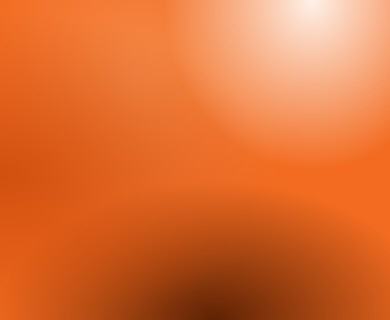
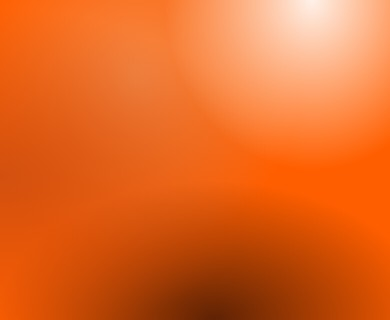
brand.500 passe à #FF5E00, mesuré avant d'être propagé
La couleur du fichier de la fondatrice remplace une estimation lue sur
une capture Instagram compressée. Le point du logo est le seul endroit du
produit où la marque se signe elle-même.

La question était : est-ce que des seuils cassent. Non, et la marge est
confortable. La luminance ne bouge que de -0,8 % — #FF5E00 a moins de
vert et pas de bleu, mais il est plus clair d'un cheveu en luminance
relative.

  encre sur orange   6,11:1 → 6,07:1   (seuil 4,5, marge de 35 %)
  blanc sur orange   3,04:1 → 3,06:1   (seuil 3,0, et il gagne)

La rampe l'accepte : teinte 22,1°, en plein dans les 20-24° des huit
autres valeurs ; luminosité 50 %, entre le 500 d'avant et le 600 ;
saturation 100 %, la plus pure — ce qu'on attend d'une couleur d'ancrage
dont les autres stops sont des dérivés rabattus.

Les trois satins portent le 500 dans leurs arrêts et sont livrés en
images : recuits, et leurs contrastes remesurés dans la même exécution.
`drape` passe de 7,06:1 à 6,94:1 en haut, `fold` de 5,06 à 5,05. Les
commentaires qui citaient ces chiffres ont suivi — un commentaire qui
annonce une mesure cesse d'en être une dès qu'il diverge.

Les fichiers de marque aussi : le point du sigle et des icônes devait
rester orange à la bonne valeur.

Relevé et non tranché : l'écart de luminosité entre le 500 et le 600,
l'état appuyé, se resserre de 9,8 à 5,9 points. La distinction tient mais
elle est plus étroite.

929 verts.

Changed region(s): [[0.5846, 0.25, 1.0, 1.0], [0.0, 0.0, 0.1231, 0.0938], [0.0, 0.9375, 0.0923, 1.0]]

diff --git a/app/__tests__/theme.test.tsx b/app/__tests__/theme.test.tsx
@@ -335,7 +335,7 @@ describe('un texte sur une photo ne tient que sur le plus opaque des arrêts', (
     // une couleur contre elle-même vaut 1:1. Sans eux, une erreur d'exposant
     // dans la luminance ne se verrait nulle part.
     expect(contraste(luminance('#FFFFFF'), luminance('#000000'))).toBeCloseTo(21, 1);
-    expect(contraste(luminance('#F26B21'), luminance('#F26B21'))).toBeCloseTo(1, 5);
+    expect(contraste(luminance('#FF5E00'), luminance('#FF5E00'))).toBeCloseTo(1, 5);
   });
 
   it('dit ce qu’il faut d’opacité pour chaque encre', () => {

diff --git a/app/src/components/SurfaceSatin.tsx b/app/src/components/SurfaceSatin.tsx
@@ -113,9 +113,9 @@ export const POSE_DU_SATIN: Record<
   VarianteDeSatin,
   { ancrage: 'haut' | 'bas'; encre: ColorName }
 > = {
-  // 7,06:1 en haut, 1,70:1 en bas.
+  // 6,94:1 en haut, 1,70:1 en bas.
   drape: { ancrage: 'haut', encre: 'ink.default' },
-  // 5,06:1 en haut, 1,52:1 en bas.
+  // 5,05:1 en haut, 1,52:1 en bas.
   fold: { ancrage: 'haut', encre: 'ink.default' },
   // 6,21:1 en bas, 1,50:1 en haut. La variante sombre, et la seule qui se lit
   // par le bas.

diff --git a/DECISIONS.md b/DECISIONS.md
@@ -5667,3 +5667,41 @@ obtenu ce qu'il réclamait ferait douter des autres manques qu'il nommerait.
 du produit `brand.500` `#F26B21`, parce que `tokens.json` le prescrit « dans tous
 les cas ». Les SVG portent la couleur du produit ; le PNG reste la référence de
 forme. À arbitrer si l'écart n'est pas voulu.
+
+## 2026-08-17 — `brand.500` passe à #FF5E00, mesuré avant d'être propagé
+
+Le 500 devient `#FF5E00`, la couleur du fichier de la fondatrice. `#F26B21` était
+une estimation lue sur une capture Instagram compressée ; celle-ci vient d'un
+fichier fait par elle. Et le point du logo est le seul endroit du produit où la
+marque se signe elle-même.
+
+**La question posée était : est-ce que des seuils cassent.** La réponse est non,
+et la marge est confortable.
+
+| combinaison | avant | après | seuil |
+| --- | --- | --- | --- |
+| encre sur orange — bouton, palier reel, pastille de distance | 6,11:1 | **6,07:1** | 4,5 |
+| blanc sur orange — le bloc accentué, ≥ 24 px | 3,04:1 | **3,06:1** | 3,0 |
+| orange sur papier — interdit en texte | 3,04:1 | 3,06:1 | — |
+
+La luminance ne bouge que de **-0,8 %** : `#FF5E00` a moins de vert et pas de
+bleu, mais il est plus clair d'un cheveu en luminance relative. L'encre sur
+orange perd quatre centièmes et garde une marge de 35 % sur son seuil ; le blanc
+sur orange en **gagne** deux.
+
+**La rampe l'accepte.** Teinte 22,1°, en plein dans les 20–24° des huit autres
+valeurs. Luminosité 50 %, entre le 500 d'avant (53,9) et le 600 (44,1).
+Saturation 100 %, la plus pure de la rampe — ce qu'on attend d'une couleur
+d'ancrage, dont les autres stops sont des dérivés légèrement rabattus.
+
+**Ce qu'il a fallu recuire.** Les trois satins portent le 500 dans leurs arrêts
+et sont livrés en images : recuits, et leurs contrastes **remesurés** dans la même
+exécution. `satin.drape` passe de 7,06:1 à 6,94:1 en haut, `fold` de 5,06 à 5,05.
+Les commentaires qui citaient ces chiffres ont suivi — un commentaire qui annonce
+une mesure cesse d'en être une dès qu'il diverge. Les fichiers de marque aussi :
+le point du sigle et des icônes est orange, il devait le rester à la bonne
+valeur.
+
+*Un point relevé et non tranché :* l'écart de luminosité entre le 500 et le 600 —
+l'état appuyé — se resserre de 9,8 à 5,9 points. La distinction tient, mais elle
+est plus étroite qu'avant. À voir avec Design si l'appui doit descendre.
